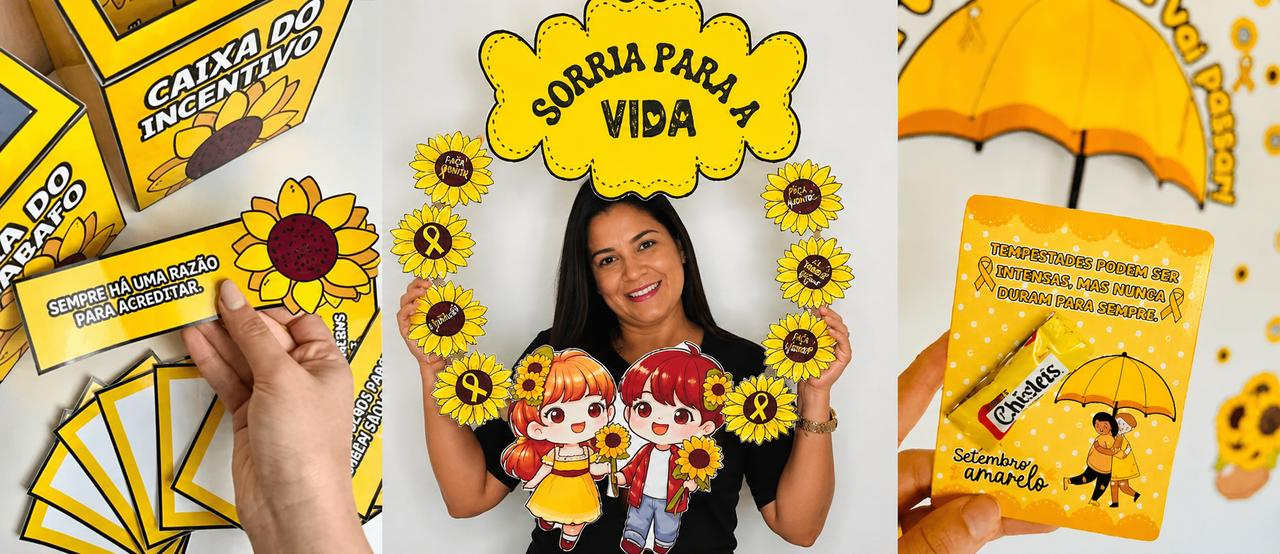
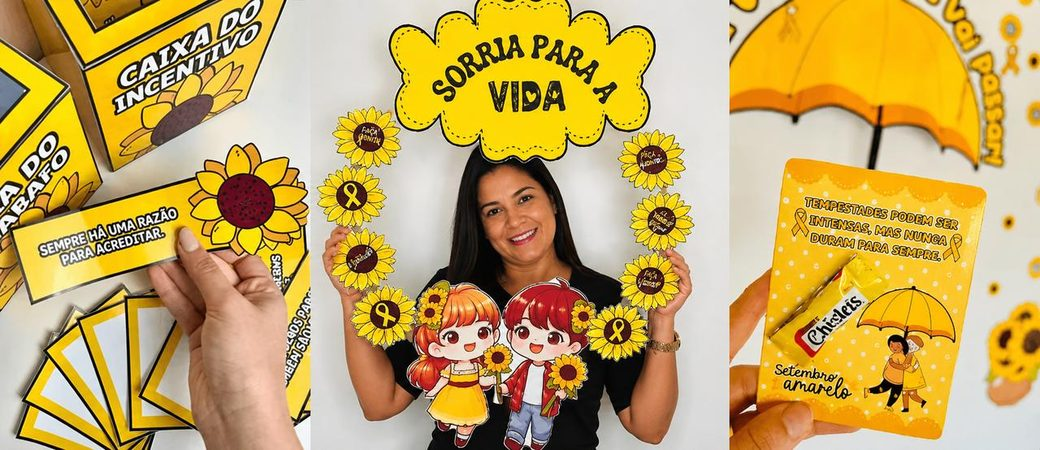
fix: muda caminho das provas sociais para a pasta imagems/

diff --git a/index.html b/index.html
@@ -201,8 +201,13 @@ window.KIT = {
 </section>
 
 <!-- ===================== PROVA SOCIAL =====================
-     Estas 3 imagens existem desde sempre em images/, mas o HTML antigo
-     pedia imagems/ (com m). Resultado: a secao inteira nao carregava. -->
+     ATENCAO ao mexer nos caminhos daqui: TODA imagem local desta pagina
+     mora em imagems/ (com m no fim, que e o nome que ja esta publicado no
+     repositorio). Estas 3 fotos viviam numa segunda pasta, images/, e isso
+     ja quebrou duas vezes: primeiro o HTML pedia imagems/ e o arquivo
+     estava em images/; depois, no ar, o Linux do GitHub Pages nao acha
+     images/ porque essa pasta nunca subiu junto. Duas pastas com nome
+     quase igual e uma armadilha — agora e uma so. -->
 <section class="secao secao-branca" id="depoimentos">
   <div class="wrap">
     <div class="cabeca">
@@ -210,9 +215,9 @@ window.KIT = {
       <h2>Conversas de quem montou o kit</h2>
     </div>
     <div class="provas">
-      <img src="images/prova-social1.jpg" width="1040" height="450" alt="Mensagens de clientes elogiando o kit" loading="lazy" />
-      <img src="images/prova-social2.jpg" width="1040" height="449" alt="Mensagens de clientes elogiando o kit" loading="lazy" />
-      <img src="images/prova-social3.jpg" width="1040" height="458" alt="Mensagens de clientes elogiando o kit" loading="lazy" />
+      <img src="imagems/prova-social1.jpg" width="1040" height="450" alt="Mensagens de clientes elogiando o kit" loading="lazy" />
+      <img src="imagems/prova-social2.jpg" width="1040" height="449" alt="Mensagens de clientes elogiando o kit" loading="lazy" />
+      <img src="imagems/prova-social3.jpg" width="1040" height="458" alt="Mensagens de clientes elogiando o kit" loading="lazy" />
     </div>
   </div>
 </section>
